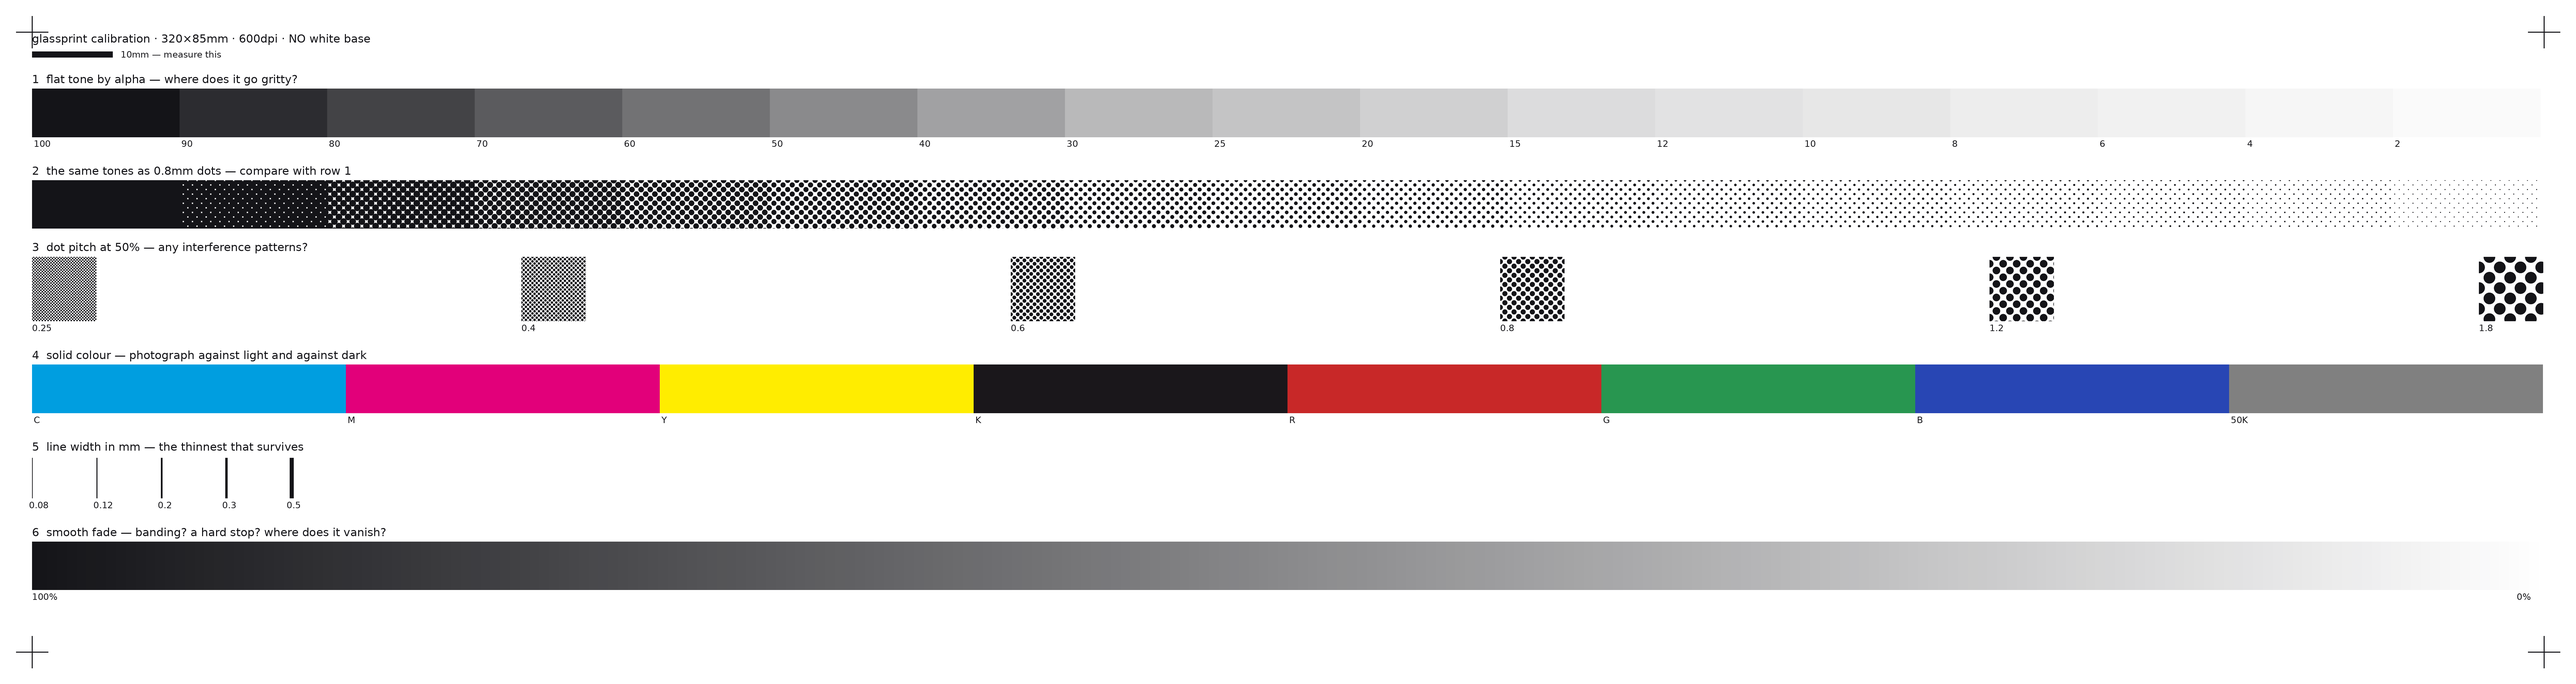
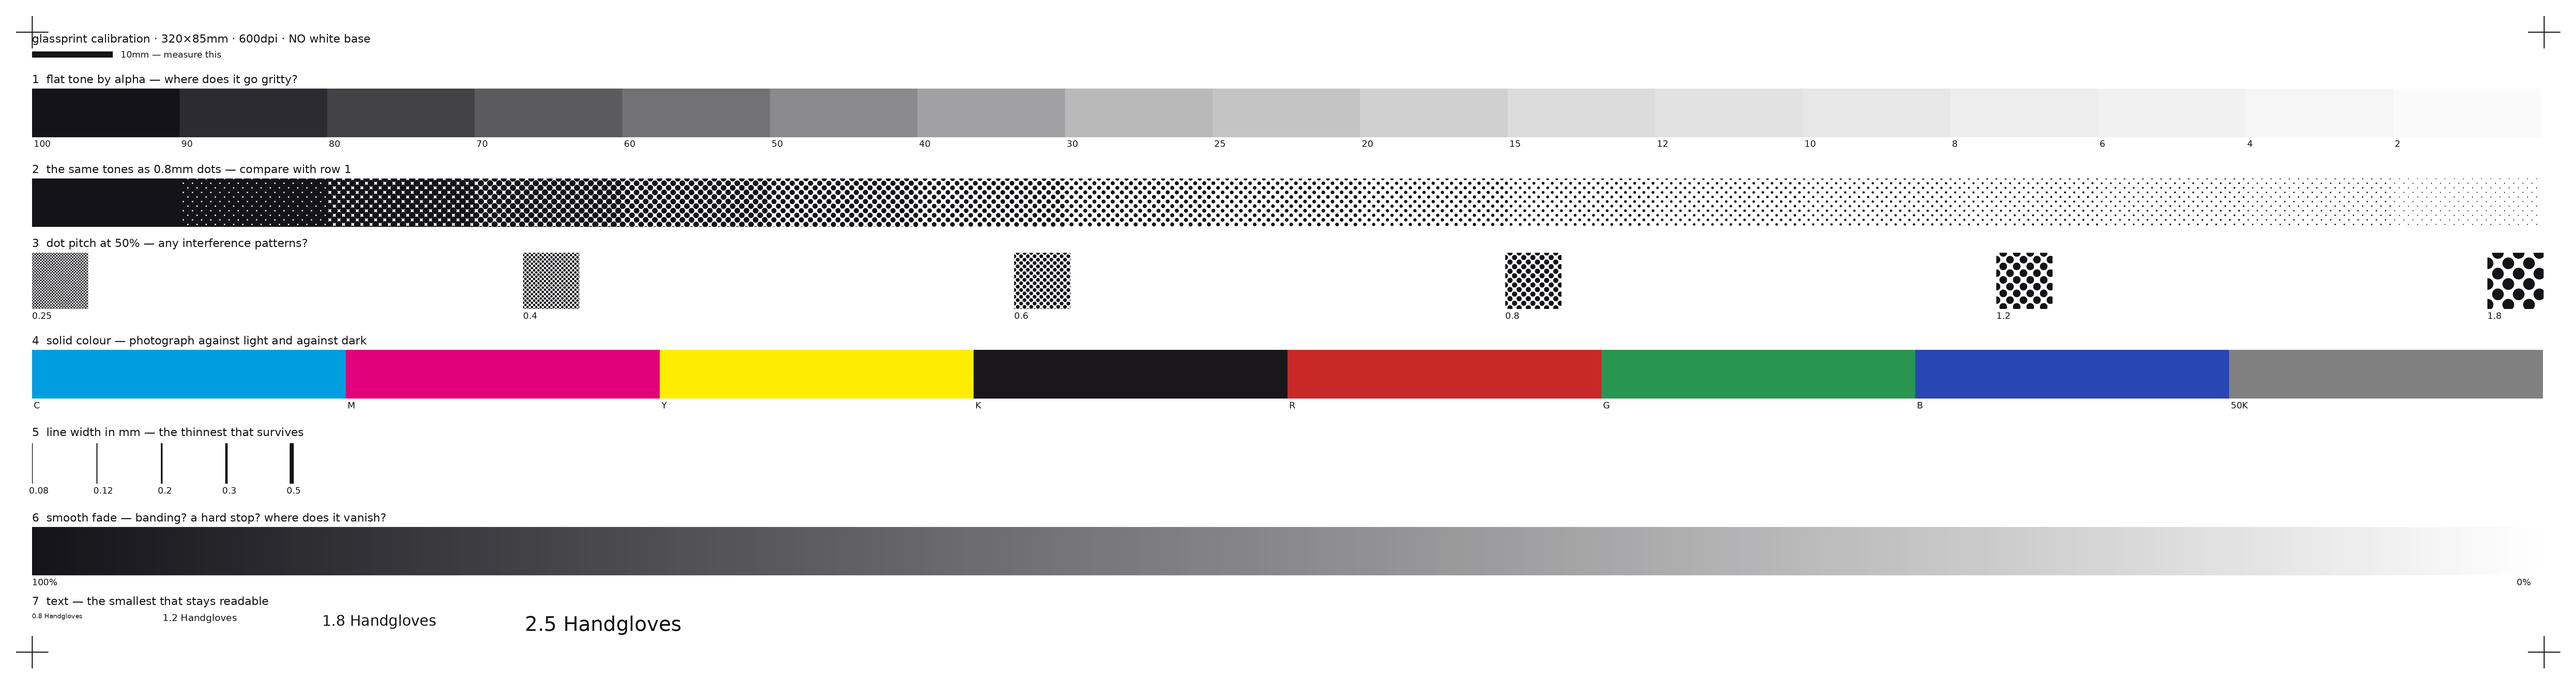
Test the type too, and offer a half-length strip
The labels were always going to be printed, so they may as well be a
deliberate test: a row of the same words at four cap heights, from 0.8mm up.
Small type on glass is worth knowing about for signing work, and it costs
nothing to ask while the machine is already running.

Also a 160mm shape. What length buys is dots per step in the screened row,
and 160mm gives eleven — past the point where you are judging tone rather
than counting marks. 320mm gives twenty-three, which is better but not twice
as informative, and costs twice the glass.

The square tile goes to 90mm to fit the extra row.

diff --git a/tools/make_test_target.py b/tools/make_test_target.py
@@ -31,8 +31,8 @@ OUT = ROOT / "test-target"
 # a scrap of glass and a thimble of ink, not a good sheet. The wide variant is
 # cut to the mini flatbed, where a 300mm ramp resolves banding that a 70mm one
 # hides entirely.
-SIZE_MM = 80.0
-SHAPES = {"tile": (80.0, 80.0), "strip": (320.0, 85.0)}
+SIZE_MM = 90.0
+SHAPES = {"tile": (90.0, 90.0), "short": (160.0, 85.0), "strip": (320.0, 85.0)}
 DPI = 600.0
 MARGIN_MM = 4.0
 
@@ -46,6 +46,10 @@ PITCHES = [0.25, 0.4, 0.6, 0.8, 1.2, 1.8]
 
 #: Line widths in millimetres, for the resolution limit.
 LINES = [0.08, 0.12, 0.2, 0.3, 0.5]
+
+#: Cap heights in millimetres. The labels on this tile are already a legibility
+#: test at 1.1 and 1.4mm; this makes that deliberate and gives it a range.
+TEXT_SIZES = [0.8, 1.2, 1.8, 2.5]
 
 SWATCHES = [
     ("C", (0, 158, 224)),
@@ -108,7 +112,7 @@ def build(variant: str, width_mm: float = SIZE_MM, height_mm: float = SIZE_MM) -
             [x, mm(y), x + step_w - 1, mm(y + 6.0)], fill=(*INK, round(percent * 2.55))
         )
         label(str(percent), x + mm(0.2), y + 6.2, tiny)
-    y += 9.4
+    y += 9.2
 
     # -- 2. the same tones as a dot screen -----------------------------------
     label("2  the same tones as 0.8mm dots — compare with row 1", left, y)
@@ -117,19 +121,19 @@ def build(variant: str, width_mm: float = SIZE_MM, height_mm: float = SIZE_MM) -
     for index, percent in enumerate(STEPS):
         band[:, index * step_w : (index + 1) * step_w] = percent / 100.0
     paste_mask(canvas, halftone(band, mm(0.8), angle=45.0), left, mm(y))
-    y += 7.5
+    y += 7.2
 
     # -- 3. dot pitch, for moire against the printer's own screen -------------
     label("3  dot pitch at 50% — any interference patterns?", left, y)
     y += 2.0
-    patch = mm(8.0)
+    patch = mm(7.0)
     gap = (width - len(PITCHES) * patch) // max(1, len(PITCHES) - 1)
     for index, pitch in enumerate(PITCHES):
         x = left + index * (patch + gap)
         block = np.full((patch, patch), 0.5, dtype=np.float32)
         paste_mask(canvas, halftone(block, mm(pitch), angle=45.0), x, mm(y))
         label(f"{pitch}", x, y + px_mm(patch) + 0.2, tiny)
-    y += px_mm(patch) + 3.4
+    y += px_mm(patch) + 3.1
 
     # -- 4. solid colour, for what the glass does to it -----------------------
     label("4  solid colour — photograph against light and against dark", left, y)
@@ -162,6 +166,15 @@ def build(variant: str, width_mm: float = SIZE_MM, height_mm: float = SIZE_MM) -
     label("100%", left, y + 6.2, tiny)
     label("0%", left + width - mm(3.4), y + 6.2, tiny)
     y += 8.4
+
+    # -- 7. type sizes --------------------------------------------------------
+    label("7  text — the smallest that stays readable", left, y)
+    y += 2.2
+    x = left
+    for size in TEXT_SIZES:
+        draw.text((x, mm(y)), f"{size} Handgloves", font=font(size), fill=(*INK, 255))
+        x += mm(9.0 + size * 9.0)
+    y += max(TEXT_SIZES) + 1.6
 
     # Laying this out by hand is exactly the sort of thing that silently runs
     # off the edge, and a calibration tile with a row missing is worse than none.
